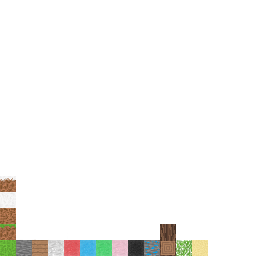
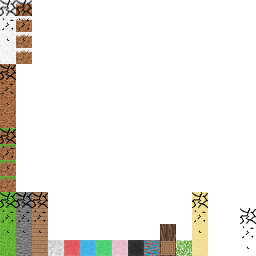
Introduce block damage system with textures

diff --git a/Assets/Scripts/Tile.cs b/Assets/Scripts/Tile.cs
@@ -2,7 +2,97 @@
 using UnityEngine;
 
 
-public enum TileType { Dirt, Grass, GrassSide, Stone, Wood, WoolWhite, WoolRed, WoolBlue, WoolGreen, WoolPink, WoolBlack, DiamondOre, WoodLogTop, WoodLogSide, Leaves, GrassSnow, GrassSnowSide, Sand }
+public enum TileType { 
+    Dirt,
+    DirtD1,
+    DirtD2,
+    DirtD3,
+
+    Grass,
+    GrassD1,
+    GrassD2,
+    GrassD3,
+
+    GrassSide,
+    GrassSideD1,
+    GrassSideD2,
+    GrassSideD3,
+    
+    Stone,
+    StoneD1,
+    StoneD2,
+    StoneD3,
+
+    Wood,
+    WoodD1,
+    WoodD2,
+    WoodD3,
+
+    WoolWhite,
+    WoolWhiteD1,
+    WoolWhiteD2,
+    WoolWhiteD3,
+
+    WoolRed,
+    WoolRedD1,
+    WoolRedD2,
+    WoolRedD3,
+
+    WoolBlue,
+    WoolBlueD1,
+    WoolBlueD2,
+    WoolBlueD3,
+
+    WoolGreen,
+    WoolGreenD1,
+    WoolGreenD2,
+    WoolGreenD3,
+
+    WoolPink,
+    WoolPinkD1,
+    WoolPinkD2,
+    WoolPinkD3,
+
+    WoolBlack,
+    WoolBlackD1,
+    WoolBlackD2,
+    WoolBlackD3,
+
+    DiamondOre,
+    DiamondOreD1,
+    DiamondOreD2,
+    DiamondOreD3,
+
+    WoodLogTop,
+    WoodLogTopD1,
+    WoodLogTopD2,
+    WoodLogTopD3,
+
+    WoodLogSide,
+    WoodLogSideD1,
+    WoodLogSideD2,
+    WoodLogSideD3,
+
+    Leaves,
+    LeavesD1,
+    LeavesD2,
+    LeavesD3,
+
+    GrassSnow,
+    GrassSnowD1,
+    GrassSnowD2,
+    GrassSnowD3,
+
+    GrassSnowSide,
+    GrassSnowSideD1,
+    GrassSnowSideD2,
+    GrassSnowSideD3,
+
+    Sand,
+    SandD1,
+    SandD2,
+    SandD3,
+}
 
 
 public class Tile
@@ -21,22 +111,57 @@ public class Tile
     public static Dictionary<TileType, Tile> tiles = new Dictionary<TileType, Tile>()
     {
         {TileType.Grass, new Tile(0, 0)},
-        {TileType.GrassSide, new Tile(0, 1)},
-        {TileType.Dirt, new Tile(0, 2)},
+        {TileType.GrassD1, new Tile(0, 1)},
+        {TileType.GrassD2, new Tile(0, 2)},
+        {TileType.GrassD3, new Tile(0, 3)},
+
+        {TileType.GrassSide, new Tile(0, 4)},
+        {TileType.GrassSideD1, new Tile(0, 5)},
+        {TileType.GrassSideD2, new Tile(0, 6)},
+        {TileType.GrassSideD3, new Tile(0, 7)},
+
+        {TileType.Dirt, new Tile(0, 8)},
+        {TileType.DirtD1, new Tile(0, 9)},
+        {TileType.DirtD2, new Tile(0, 10)},
+        {TileType.DirtD3, new Tile(0, 11)},
+
         {TileType.Stone, new Tile(1, 0)},
+        
         {TileType.Wood, new Tile(2, 0)},
+        
         {TileType.WoolWhite, new Tile(3, 0)},
+        
         {TileType.WoolRed, new Tile(4, 0)},
+        
         {TileType.WoolBlue, new Tile(5, 0)},
+        
         {TileType.WoolGreen, new Tile(6, 0)},
+        
         {TileType.WoolPink, new Tile(7, 0)},
+        
         {TileType.WoolBlack, new Tile(8, 0)},
+        
         {TileType.DiamondOre, new Tile(9, 0)},
+        
         {TileType.WoodLogTop, new Tile(10, 0)},
+        
         {TileType.WoodLogSide, new Tile(10, 1)},
+        
         {TileType.Leaves, new Tile(11, 0)},
-        {TileType.GrassSnow, new Tile(0, 3)},
-        {TileType.GrassSnowSide, new Tile(0, 4)},
+        
+        {TileType.GrassSnow, new Tile(0, 12)},
+        {TileType.GrassSnowD1, new Tile(0, 13)},
+        {TileType.GrassSnowD2, new Tile(0, 14)},
+        {TileType.GrassSnowD3, new Tile(0, 15)},
+
+        {TileType.GrassSnowSide, new Tile(1, 12)},
+        {TileType.GrassSnowSideD1, new Tile(1, 13)},
+        {TileType.GrassSnowSideD2, new Tile(1, 14)},
+        {TileType.GrassSnowSideD3, new Tile(1, 15)},
+
         {TileType.Sand, new Tile(12, 0)},
+        {TileType.SandD1, new Tile(12, 1)},
+        {TileType.SandD2, new Tile(12, 2)},
+        {TileType.SandD3, new Tile(12, 3)},
     };
 }

diff --git a/Assets/Scripts/Block.cs b/Assets/Scripts/Block.cs
@@ -1,7 +1,83 @@
 using System.Collections.Generic;
 
 
-public enum BlockType { Air, WoolPink, Grass, Dirt, Stone, Wood, WoolWhite, WoolBlack, WoolBlue, WoolGreen, WoolRed, DiamondOre, WoodLog, Leaves, GrassSnow, Sand }
+public enum BlockType 
+{ 
+    Air,
+
+    WoolPink,
+
+
+    Grass,
+    GrassD1,
+    GrassD2,
+    GrassD3,
+
+    Dirt,
+    DirtD1,
+    DirtD2,
+    DirtD3,
+
+    Stone,
+    StoneD1,
+    StoneD2,
+    StoneD3,
+
+    Wood,
+    WoodD1,
+    WoodD2,
+    WoodD3,
+
+    WoolWhite,
+    WoolWhiteD1,
+    WoolWhiteD2,
+    WoolWhiteD3,
+
+    WoolBlack,
+    WoolBlackD1,
+    WoolBlackD2,
+    WoolBlackD3,
+
+    WoolBlue,
+    WoolBlueD1,
+    WoolBlueD2,
+    WoolBlueD3,
+
+    WoolGreen,
+    WoolGreenD1,
+    WoolGreenD2,
+    WoolGreenD3,
+
+    WoolRed,
+    WoolRedD1,
+    WoolRedD2,
+    WoolRedD3,
+
+    DiamondOre,
+    DiamondOreD1,
+    DiamondOreD2,
+    DiamondOreD3,
+
+    WoodLog,
+    WoodLogD1,
+    WoodLogD2,
+    WoodLogD3,
+
+    Leaves,
+    LeavesD1,
+    LeavesD2,
+    LeavesD3,
+
+    GrassSnow,
+    GrassSnowD1,
+    GrassSnowD2,
+    GrassSnowD3,
+
+    Sand,
+    SandD1,
+    SandD2,
+    SandD3,
+}
 
 
 public class Block
@@ -32,7 +108,15 @@ public class Block
 
     public static Dictionary<BlockType, Block> blocks = new Dictionary<BlockType, Block>(){
         {BlockType.Grass, new Block(TileType.Grass, TileType.GrassSide, TileType.Dirt)},
+        {BlockType.GrassD1, new Block(TileType.GrassD1, TileType.GrassSideD1, TileType.DirtD1)},
+        {BlockType.GrassD2, new Block(TileType.GrassD2, TileType.GrassSideD2, TileType.DirtD2)},
+        {BlockType.GrassD3, new Block(TileType.GrassD3, TileType.GrassSideD3, TileType.DirtD3)},
+
         {BlockType.Dirt, new Block(TileType.Dirt)},
+        {BlockType.DirtD1, new Block(TileType.DirtD1)},
+        {BlockType.DirtD2, new Block(TileType.DirtD2)},
+        {BlockType.DirtD3, new Block(TileType.DirtD3)},
+
         {BlockType.Stone, new Block(TileType.Stone)},
         {BlockType.Wood, new Block(TileType.Wood)},
         {BlockType.WoolWhite, new Block(TileType.WoolWhite)},
@@ -44,7 +128,15 @@ public class Block
         {BlockType.DiamondOre, new Block(TileType.DiamondOre)},
         {BlockType.WoodLog, new Block(TileType.WoodLogTop, TileType.WoodLogSide, TileType.WoodLogTop)},
         {BlockType.Leaves, new Block(TileType.Leaves)},
+
         {BlockType.GrassSnow, new Block(TileType.GrassSnow, TileType.GrassSnowSide, TileType.Dirt)},
+        {BlockType.GrassSnowD1, new Block(TileType.GrassSnowD1, TileType.GrassSnowSideD1, TileType.DirtD1)},
+        {BlockType.GrassSnowD2, new Block(TileType.GrassSnowD2, TileType.GrassSnowSideD2, TileType.DirtD2)},
+        {BlockType.GrassSnowD3, new Block(TileType.GrassSnowD3, TileType.GrassSnowSideD3, TileType.DirtD3)},
+
         {BlockType.Sand, new Block(TileType.Sand)},
+        {BlockType.SandD1, new Block(TileType.SandD1)},
+        {BlockType.SandD2, new Block(TileType.SandD2)},
+        {BlockType.SandD3, new Block(TileType.SandD3)},
     };
 }

diff --git a/Assets/Scripts/TerrainChunk.cs b/Assets/Scripts/TerrainChunk.cs
@@ -1,4 +1,5 @@
-using System.Collections.Generic;
+using System;
+using System.Collections.Generic;
 using UnityEngine;
 
 public class TerrainChunk : MonoBehaviour
@@ -7,7 +8,69 @@ public class TerrainChunk : MonoBehaviour
     public const int chunkHeight = 100;
 
     public BlockType[,,] blocks = new BlockType[chunkWidth + 2, chunkHeight, chunkWidth + 2];
+    private int[,,] damageLevel = new int[chunkWidth + 2, chunkHeight, chunkWidth + 2];
 
+    private Dictionary<Tuple<int, int, int>, float> blocksToObserve = new Dictionary<Tuple<int, int, int>, float>();
+    
+
+    private float timeToRestore = 4f;
+
+
+    private void Update()
+    {
+        if (blocksToObserve.Count == 0) return;
+
+        try
+        {
+            foreach (var block in blocksToObserve)
+            {
+            
+                    blocksToObserve[block.Key] -= 1f * Time.deltaTime;
+
+                    // Reduce block damage
+                    if (block.Value <= 0)
+                    {
+                        damageLevel[block.Key.Item1, block.Key.Item2, block.Key.Item3]--;
+                        blocks[block.Key.Item1, block.Key.Item2, block.Key.Item3]--;
+                        blocksToObserve[block.Key] = .2f;
+
+                        // Remove block from list of observing blocks if damage is 0
+                        if (damageLevel[block.Key.Item1, block.Key.Item2, block.Key.Item3] == 0)
+                            blocksToObserve.Remove(block.Key);
+
+                        GenerateMesh();
+                    }
+            
+            }
+        } catch { }
+    }
+
+    public void IncreaseBLockDestroyLevel(int x, int y, int z)
+    {
+        var key = new Tuple<int, int, int>(x, y, z);
+
+        // if block is already being observed
+        if (blocksToObserve.ContainsKey(key))
+        {
+            damageLevel[x, y, z]++;
+            blocks[x, y, z]++;
+            blocksToObserve[key] = 2f;
+
+            if (damageLevel[x, y, z] == 4)
+            {
+                blocks[x, y, z] = BlockType.Air;
+                damageLevel[x, y, z] = 0;
+                blocksToObserve.Remove(key);
+            }
+        }
+        else    // Add block to the list
+        {
+            Debug.Log("adding new block: " + x + y + z);
+            blocksToObserve.Add(key, timeToRestore);
+            damageLevel[x, y, z]++;
+            blocks[x, y, z]++;
+        }
+    }
 
     public void GenerateMesh()
     {

diff --git a/Assets/Scripts/TerrainBuildingSystem.cs b/Assets/Scripts/TerrainBuildingSystem.cs
@@ -32,6 +32,10 @@ public class TerrainBuildingSystem : MonoBehaviour
             HandleMouseClick(true);
 
 
+
+
+
+
         if (Input.GetAxis("Mouse ScrollWheel") < 0f) // forward
         {
             if (selectedSlot < 8)
@@ -110,7 +114,22 @@ public class TerrainBuildingSystem : MonoBehaviour
                     if (tc.blocks[bix, biy, biz] == BlockType.DiamondOre)
                         Debug.Log("Diamonds, gg");
 
-                    tc.blocks[bix, biy, biz] = BlockType.Air;
+                    tc.IncreaseBLockDestroyLevel(bix, biy, biz);
+
+                    /*if (tc.destroyLevel[bix, biy, biz] == 3 || tc.blocks[bix, biy, biz] == BlockType.Leaves)
+                    {
+                        // Reset Destroy Level
+                        tc.destroyLevel[bix, biy, biz] = 0;
+                        // Remove Block
+                        tc.blocks[bix, biy, biz] = BlockType.Air;
+                    }
+                    else
+                    {
+                        // Increase Destroy Level
+                        tc.destroyLevel[bix, biy, biz]++;
+                        // Change Texture
+                        tc.blocks[bix, biy, biz] = tc.blocks[bix, biy, biz] + 1;
+                    }*/
                     tc.GenerateMesh();
                 }
             }

diff --git a/Assets/Scripts/CrossSceneData.cs b/Assets/Scripts/CrossSceneData.cs
@@ -4,7 +4,7 @@ using UnityEngine;
 
 public static class CrossSceneData
 {
-    public static int ViewDistance { get; set; } = 8;
+    public static int ViewDistance { get; set; } = 3;
 
     public static float Frequency { get; set; } = 1.5f;
     public static float Strength { get; set; } = 50;
